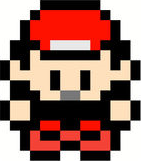
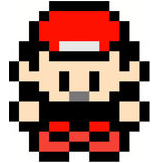
when player moves right, visual now is the player looking right

diff --git a/app.js b/app.js
@@ -54,27 +54,15 @@ new Vue({
         document.addEventListener("keydown", function (event) {
             if (event.key == 'ArrowRight'){
                 this.player = document.getElementById('player')
-
                 this.playerId = this.player.className
- 
                 this.playerId = parseInt(this.playerId)
-                console.log(this.playerId, 'pID')
-                
+
                 squares[this.playerId].removeAttribute('id')
                 squares[this.playerId].classList.add('squares')
+                squares[this.playerId].style.backgroundImage = "none"
                 squares[this.playerId + 1].id = 'player'
                 squares[this.playerId + 1].classList.remove('squares')
-
-                // document.getElementById('player').classList.add('squares')
-                // document.getElementById('player').removeAttribute('id')
- 
-
-                // console.log(squares[newId])
-
-                // squares[newId].id = 'player'
-
-
-                   
+                squares[this.playerId + 1].style.backgroundImage = "url('images/redRight.png')"
                 }
             })
     }

diff --git a/style.css b/style.css
@@ -33,7 +33,9 @@
 #player{
   height: 2rem;
   width: 2rem;
+
   background-image: url("images/redFront.png");
-  object-fit: scale-down;
+  background-size: contain;
+
 }
 
